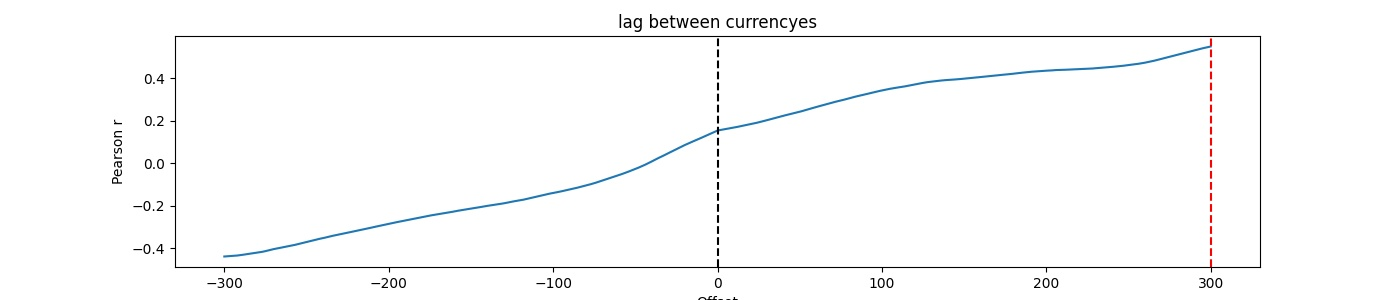
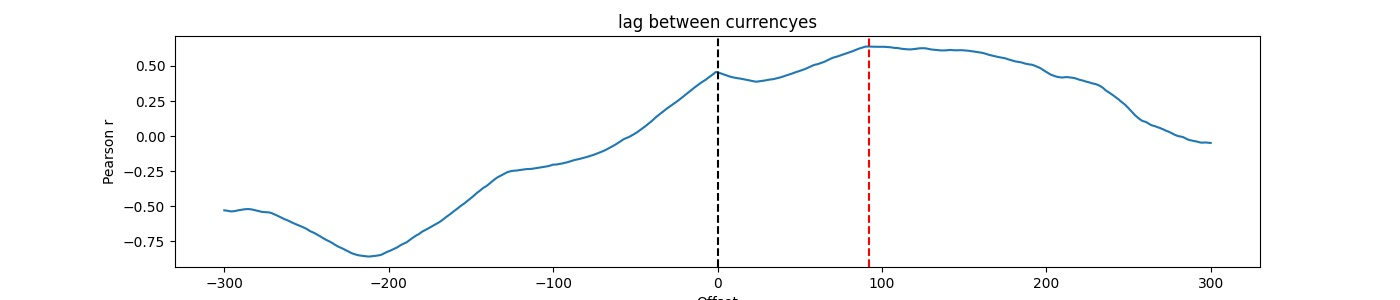
big corrolatin problem detected .corr func is not for vecs and data not clean! corr  functions broken

diff --git a/lagtest.py b/lagtest.py
@@ -1,11 +1,11 @@
-from numpy.core.arrayprint import printoptions
 import pandas as pd
 import requests 
 import plotly.graph_objects as go
 import numpy as np
 from sklearn.preprocessing import MinMaxScaler
 import lag_Corr as lg
-import matplotlib.pyplot as plt
+import matplotlib.pyplot as plt 
+import logging
 
 def scaleMinMax(a):
     # use min max scaler 
@@ -18,6 +18,22 @@ def scaleMinMax(a):
 
     return scaled_price
 
+def clean_data(df1,df2):
+    # bring dfs to same lenth if not already 
+
+    if len(df1) > len(df2):
+        df1 = df1.tail(len(df2))
+        df1.reset_index()
+    elif len(df1) < len(df2):
+        df2 = df2.tail(len(df1))
+        # df2.reset_index()
+    elif len(df1) == len(df2):
+        logging.info("no ajustment needed")
+    else:
+        raise Warning
+
+    return df1,df2
+    
 def get_coin_by_name(name,time="max"):
     # get coin by name 
     url = f"https://api.coingecko.com/api/v3/coins/{name}/market_chart?vs_currency=eur&days={time}&interval=minutely%20" # DATEN NICHT SAUBER !!!
@@ -47,8 +63,6 @@ def avalable_currencyes():
     return pd.DataFrame(res)
 
 def plot_chart(coin1,coinName1="" ,coin2=None ,coinName2="",mode="lines"):
-    if show_plots == False:
-        return
 
     #plot two coins 
     fig = go.Figure()
@@ -60,11 +74,12 @@ def plot_chart(coin1,coinName1="" ,coin2=None ,coinName2="",mode="lines"):
     fig.show()
 
 def detect_leg_corr(p1,p2,lag=100):
+    # FUNCTION KIND OF BROKEN
 
     #caluclate sycrony 
     res = {} 
     for l in range(-int(lag),int(lag+1)):
-        res[l] = lg.crosscorr(p1,p2, l) 
+        res[l] = lg.crosscorr_vector(p1,p2, l) # !!!!!!!!!!!!!!!!!!!!!!!!!
 
     sorted_res = dict(sorted(res.items(), key=lambda item: item[1],reverse=True))
     peak_snyc = list(sorted_res.items())[0]
@@ -72,12 +87,11 @@ def detect_leg_corr(p1,p2,lag=100):
     return peak_snyc,sorted_res,res
 
 def lag_plot(res,peak_snyc):
-    if show_plots == True:
-        f,ax=plt.subplots(figsize=(14,3))
-        ax.plot(res.keys(),res.values())
-        ax.axvline(0,color='k',linestyle='--',label='Center')
-        ax.axvline(peak_snyc[0],color='r',linestyle='--',label='Peak synchrony')
-        ax.set(title='lag between currencyes', xlabel='Offset',ylabel='Pearson r')
+    f,ax=plt.subplots(figsize=(14,3))
+    ax.plot(res.keys(),res.values())
+    ax.axvline(0,color='k',linestyle='--',label='Center')
+    ax.axvline(peak_snyc[0],color='r',linestyle='--',label='Peak synchrony')
+    ax.set(title='lag between currencyes', xlabel='Offset',ylabel='Pearson r')
 
     plt.savefig("./myplot.jpg")
 
@@ -85,41 +99,12 @@ def calc_std(df):
     #      normal std        std with scaled prices 
     return df["price"].std(),df["scaled_price"].std()
 
-
-
 def windowed_time_lagged_cross_correlation(p1,p2,lag,no_splits):
+    #FUNCTION KIND OF BROKEN
+
     # (to see if leader and folower change not nesserery)
-    pass
+    samples_per_split = len(p1)/no_splits
+
+    for t in range(0, no_splits):
+        spit_p1 = p1.loc[(t)*samples_per_split:(t+1)*samples_per_split]
     
-###############################################################################################
-####################### ACTUAL CODE ######################
-###############################################################################################
-
-show_plots= True # render or dont render plots
-
-time = 90#how many days showld the history data go back -> only up to one 90 days possile
-leg = 300
-
-#tezos hoch 
-rand_coin_name = "tezos" #name of rand coin to get 
-
-if __name__=="__main__":    #get bitcoin and etherium data 
-    main_coin_dict = get_main_coins(time=time)
-    btc_df = main_coin_dict["bitcoin"]
-    eth_df = main_coin_dict["ethereum"]
-
-    #get coin to compare 
-    rand_coin_df = get_coin_by_name(rand_coin_name,time=time)
-
-    # plot time series
-    plot_chart(btc_df,"bitcoin",rand_coin_df,rand_coin_name)
-
-    print(btc_df)
-
-    # #detect logs 
-    peak_sync,sorted_res,res = detect_leg_corr(btc_df["scaled_price"],rand_coin_df["scaled_price"],leg=leg)
-
-    #plot lag plot 
-    lag_plot(res,peak_snyc = peak_sync)
-
-    print(list(sorted_res.items())[:5])

diff --git a/playground.py b/playground.py
@@ -1,0 +1,35 @@
+import lagtest as lg 
+
+show_plots= True # render or dont render plots
+
+time = 30 #how many days showld the history data go back -> only up to one 90 days possile
+lag = 300 # till up to which lag do you want to compare the data 
+no_splits = 100 # number of splits for window time lagges corrolation
+
+#tezos hoch 
+rand_coin_name = "tezos" #name of rand coin to get 
+
+if __name__=="__main__":    #get bitcoin and etherium data 
+    main_coin_dict = lg.get_main_coins(time=time)
+    btc_df = main_coin_dict["bitcoin"]
+    eth_df = main_coin_dict["ethereum"]
+
+    #get coin to compare 
+    rand_coin_df = lg.get_coin_by_name(rand_coin_name,time=time)
+
+    btc_df, rand_coin_df = lg.clean_data(btc_df,rand_coin_df)
+
+    # plot time series
+    lg.plot_chart(btc_df,"bitcoin",rand_coin_df,rand_coin_name)
+
+    # # detect logs 
+    # peak_sync,sorted_res,res = lg.detect_leg_corr(btc_df["scaled_price"],rand_coin_df["scaled_price"],lag=lag)
+    peak_sync,sorted_res,res = lg.detect_leg_corr(btc_df[["ts","scaled_price"]],rand_coin_df[["ts","scaled_price"]],lag=lag) #!!!!!!!!!!!!!!!!!!!
+
+
+    # plot lag plot 
+    lg.lag_plot(res,peak_snyc = peak_sync)
+
+    # lg.windowed_time_lagged_cross_correlation(btc_df["scaled_price"],rand_coin_df["scaled_price"],lag=lag,no_splits=no_splits)
+
+    print(peak_sync,sorted_res,res)

diff --git a/run.py b/run.py
@@ -1,17 +1,16 @@
-from legtest import *
-import pandas as pd
+from numpy.core.arrayprint import printoptions
+import lagtest as lg 
+rand_coin_name = "tezos" #name of rand coin to get 
+time = 30
 
-# time = 1
-# time = 30# how many days showld the history data go back
-time = 90 # how many days showld the history data go back
-lag = 300
-
-# get main coins to compare and calculate cross corrolation
-main_coin_dict = get_main_coins(time=time)
-
+main_coin_dict = lg.get_main_coins(time=time)
 btc_df = main_coin_dict["bitcoin"]
 eth_df = main_coin_dict["ethereum"]
 
-btc_df.iloc[1]["price"] = None 
+#get coin to compare 
+rand_coin_df = lg.get_coin_by_name(rand_coin_name,time=time)
 
-print(btc_df.head(5)) 
+btc_df["price_vec"] = list(btc_df[["ts","scaled_price"]].to_records(index=False))
+rand_coin_df["price_vec"] = list(rand_coin_df[["ts","scaled_price"]].to_records(index=False))
+
+btc_df["price_vec"].corr(rand_coin_df["price_vec"].shift(0))

diff --git a/lag_Corr.py b/lag_Corr.py
@@ -16,3 +16,22 @@ def crosscorr(datax, datay, lag=0, wrap=False):
         return datax.corr(shiftedy)
     else: 
         return datax.corr(datay.shift(lag))
+
+def crosscorr_vector(datax, datay, lag=0, wrap=False):
+    """ Lag-N cross correlation. 
+    Shifted data filled with NaNs 
+    
+    Parameters
+    ----------
+    lag : int, default 0
+    datax, datay : pandas.Series objects of equal length
+    Returns
+    ----------
+    crosscorr : float
+    """
+    if wrap:
+        shiftedy = datay.shift(lag)
+        shiftedy.iloc[:lag] = datay.iloc[-lag:].values
+        return datax.corr(shiftedy)
+    else: 
+        return datax.corr(datay.shift(lag))
